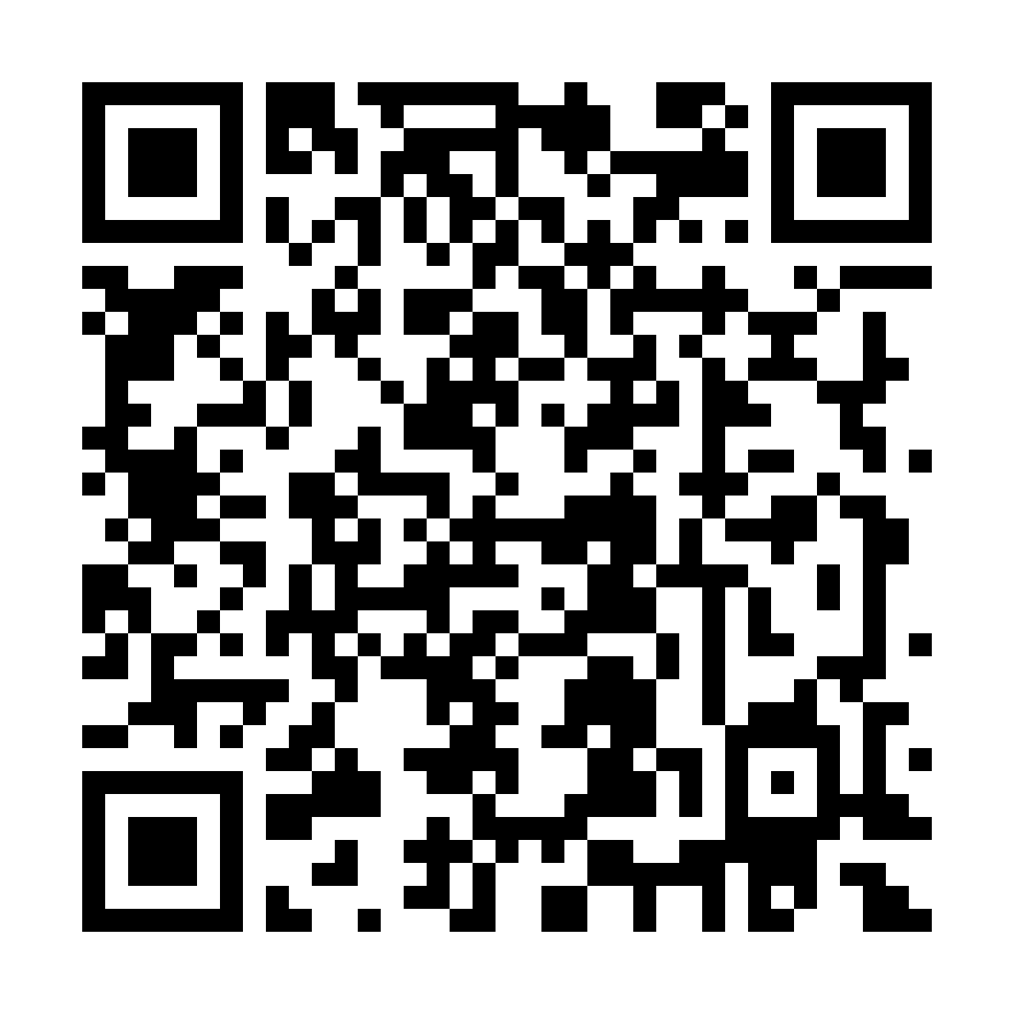
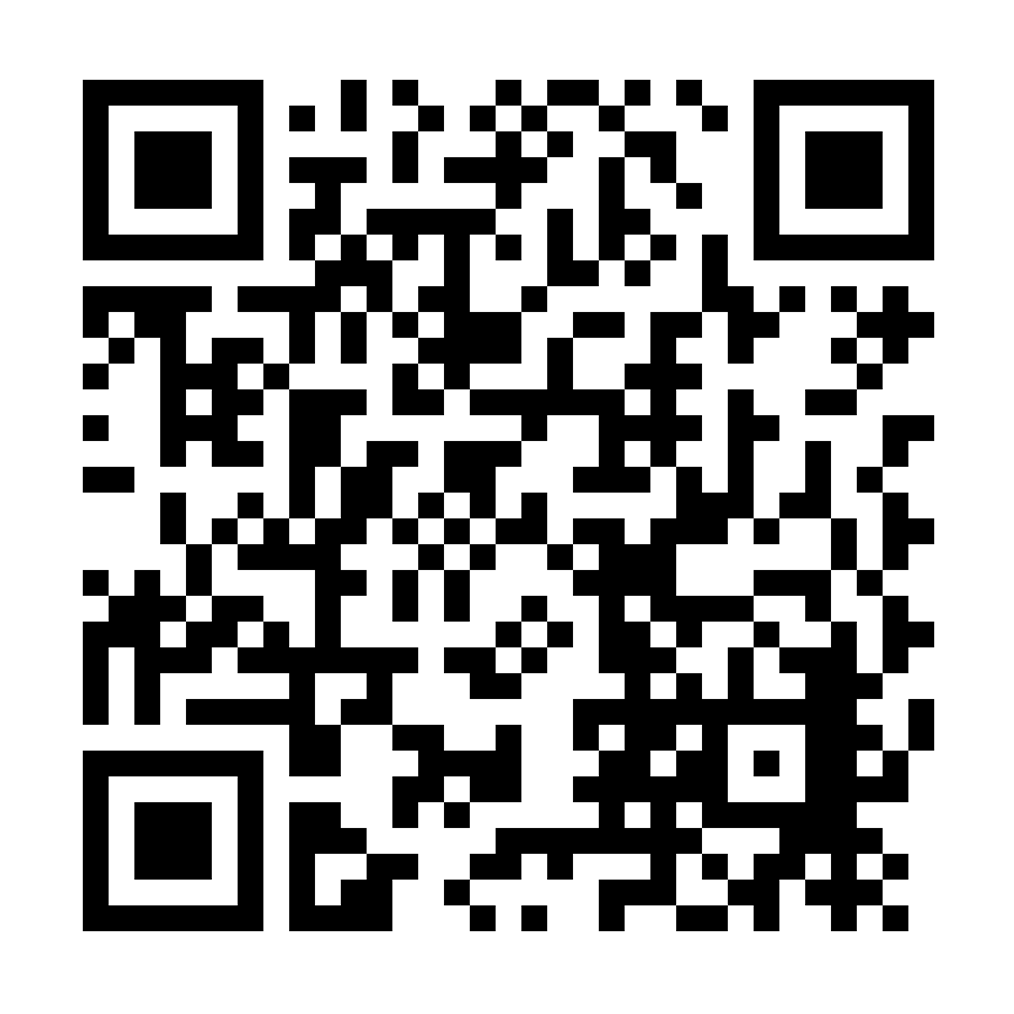
update for 2024

diff --git a/src/components/Pengumuman.jsx b/src/components/Pengumuman.jsx
@@ -8,6 +8,9 @@ function Pengumuman({name, birthdate, university, major, setHasil}) {
         setHasil(false);
     };
 
+    // ubah nama ke kapital
+    name = name.toUpperCase();
+
     let tanggalLahir = birthdate[8]+birthdate[9]+' - '+ birthdate[5] +birthdate[6] + ' - ' + birthdate[0]+birthdate[1]+birthdate[2]+birthdate[3]
 
     const generateRandomNumber3digit = () => {
@@ -25,11 +28,13 @@ function Pengumuman({name, birthdate, university, major, setHasil}) {
         const randomNumber = Math.floor(Math.random() * 900000) + 100000; // Menghasilkan angka antara 100000-999999 (6 digit)
         return randomNumber;
     };
-      
-    let Universitas = generateRandomNumber3digit() + ' - ' + university.toUpperCase();
-    let Prodi = generateRandomNumber6digit() + ' - ' + major.toUpperCase();
 
-    let NomorPeserta = '23 - '+ generateRandomNumber4digit() +' - '+ generateRandomNumber6digit();
+    let univcode = generateRandomNumber3digit()
+      
+    let Universitas = univcode + ' - ' + university.toUpperCase();
+    let Prodi = `${univcode}${generateRandomNumber4digit()} - ${major.toUpperCase()}`;
+
+    let NomorPeserta = '24 - '+ generateRandomNumber4digit() +' - '+ generateRandomNumber6digit();
       
 
     return (
@@ -39,7 +44,7 @@ function Pengumuman({name, birthdate, university, major, setHasil}) {
                     <img src={HomeImage} alt="" />
                 </div>
                 <div className="judul">
-                    PENGUMUMAN HASIL SELEKSI SNBT SNPMB 2023
+                    PENGUMUMAN HASIL SELEKSI SNBT SNPMB 2024
                 </div>
                 <div className="isi">
                     <div className="QRCode">
@@ -71,7 +76,7 @@ function Pengumuman({name, birthdate, university, major, setHasil}) {
                                 </div>
                             </div>
 
-                            <div className="announce"><b>Selamat! Anda dinyatakan lulus seleksi SNBT SNPMB 2023</b> di</div>
+                            <div className="announce"><b>Selamat! Anda dinyatakan lulus seleksi SNBT SNPMB 2024</b> di</div>
 
                             <div className="PengumumanHasil">
                                 <div className="PHRow">
@@ -91,7 +96,7 @@ function Pengumuman({name, birthdate, university, major, setHasil}) {
                             </div>
 
                             <div className="Daful">Persyaratan pendaftaran ulang calon mahasiswa baru dapat dilihat di{' '}<span style={{ color: 'blue' }}>sini</span>.</div>
-                            <div className="CetakKartu">Anda dapat mencetak kembali Kartu Tanda Peserta UTBK-SNBT 2023 di{' '}<span style={{ color: 'blue' }}>sini</span>.</div>
+                            <div className="CetakKartu">Anda dapat mencetak kembali Kartu Tanda Peserta UTBK-SNBT 2024 di{' '}<span style={{ color: 'blue' }}>sini</span>.</div>
                             <div className="TombolCetak">
                                 <button id="Cetak">UNDUH PENGUMUMAN KETUA SNPMB (PDF)</button>
                             </div>

diff --git a/public/index.html b/public/index.html
@@ -24,7 +24,7 @@
       work correctly both with client-side routing and a non-root public URL.
       Learn how to configure a non-root public URL by running `npm run build`.
     -->
-    <title>Pengumuman SNBT SNPMB 2023</title>
+    <title>Pengumuman SNBT SNPMB 2024</title>
   </head>
   <body>
     <noscript>You need to enable JavaScript to run this app.</noscript>
